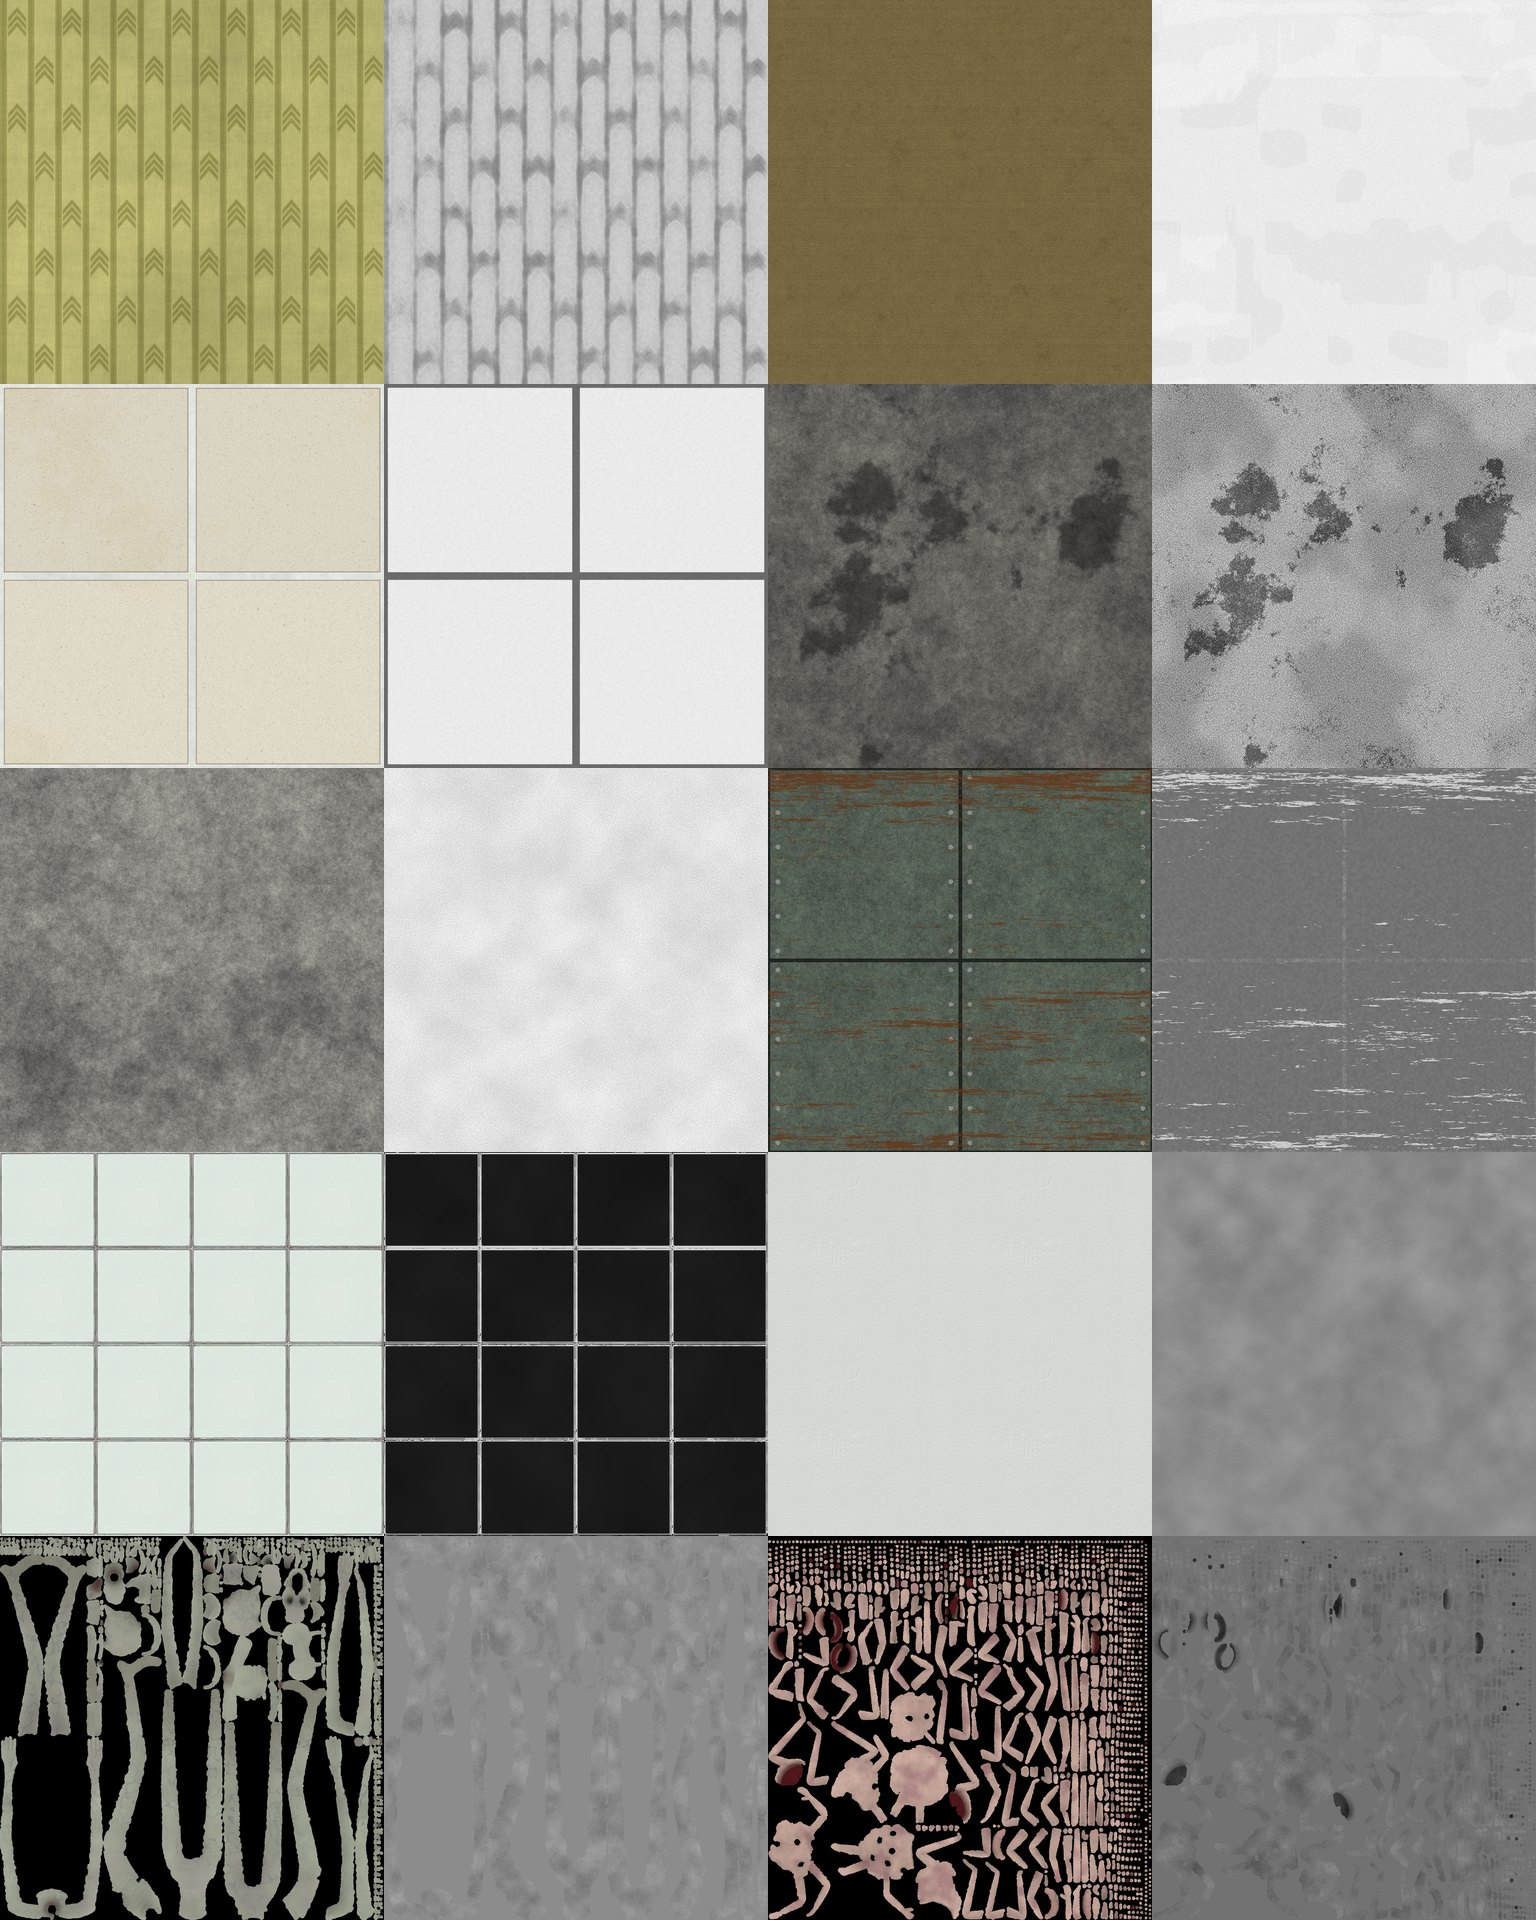
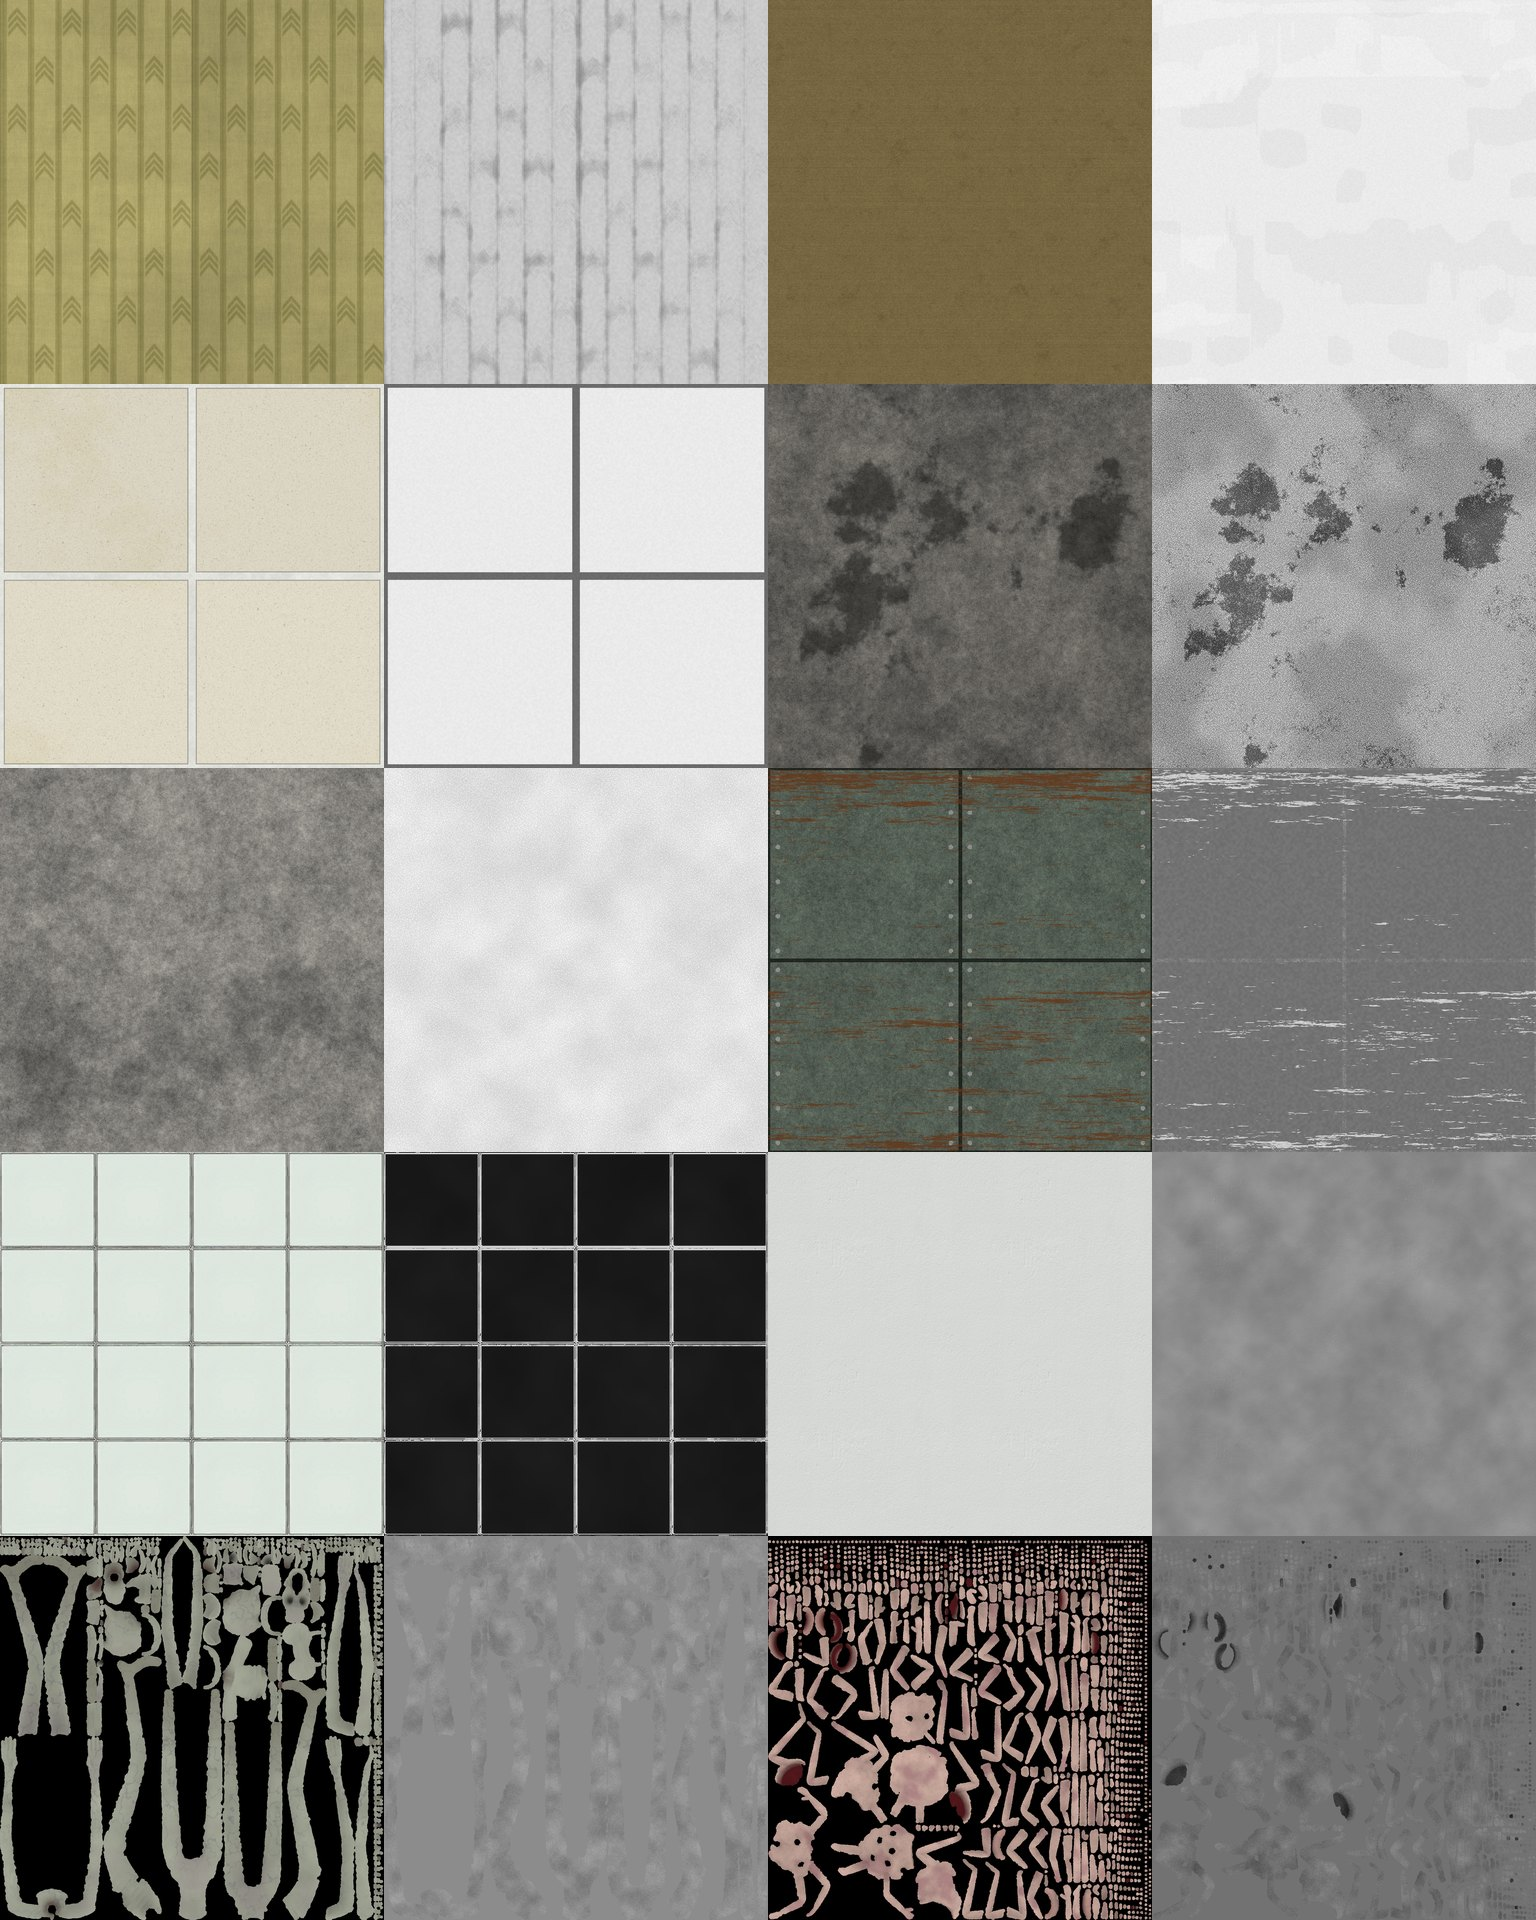
v4.17 (langues) : loc_fill.py lit aussi le format des agents ({"cles": [...]})

Changed region(s): [[0.25, 0.0, 0.5, 0.2188]]

diff --git a/Backrooms/Tools/Localization/loc_fill.py b/Backrooms/Tools/Localization/loc_fill.py
@@ -3,7 +3,8 @@ v4.17 : remplit les traductions de cles donnees dans les catalogues Content/Loca
 
 Usage :  python Tools/Localization/loc_fill.py <fichier.json> [<fichier.json> ...]
  - chaque fichier : {"<cle>": {"fr": "...", "<culture>": "<traduction>", ...}, ...} (le francais est ignore : la source
-   est le texte du code, recopie par loc_extract.py) ;
+   est le texte du code, recopie par loc_extract.py), ou {"cles": [{"cle": "<cle>", "<culture>": "...", ...}, ...]}
+   (format des agents : les champs autres que les cultures, comme "ou" ou "termes", sont ignores) ;
  - a lancer APRES loc_extract.py (les cles doivent exister dans les catalogues) et AVANT loc_build.py ;
  - chaque traduction ecrite est marquee "fuzzy" (a relire par une personne qui parle la langue), comme les traductions
    produites automatiquement des versions precedentes ; l'ancien texte source garde son commentaire (#| msgid) ;
@@ -27,10 +28,15 @@ def main():
         print(__doc__)
         sys.exit(2)
     data = {}
+    codes = [c for c, _, _ in lc.CULTURES]
     for path in sys.argv[1:]:
         with open(path, encoding="utf-8") as f:
-            data.update(json.load(f))
-    codes = [c for c, _, _ in lc.CULTURES]
+            raw = json.load(f)
+        if isinstance(raw, dict) and isinstance(raw.get("cles"), list):
+            for entry in raw["cles"]:
+                data[entry["cle"]] = {k: v for k, v in entry.items() if k in codes}
+        else:
+            data.update(raw)
     errors = 0
     for key, langs in data.items():
         for code in langs:
